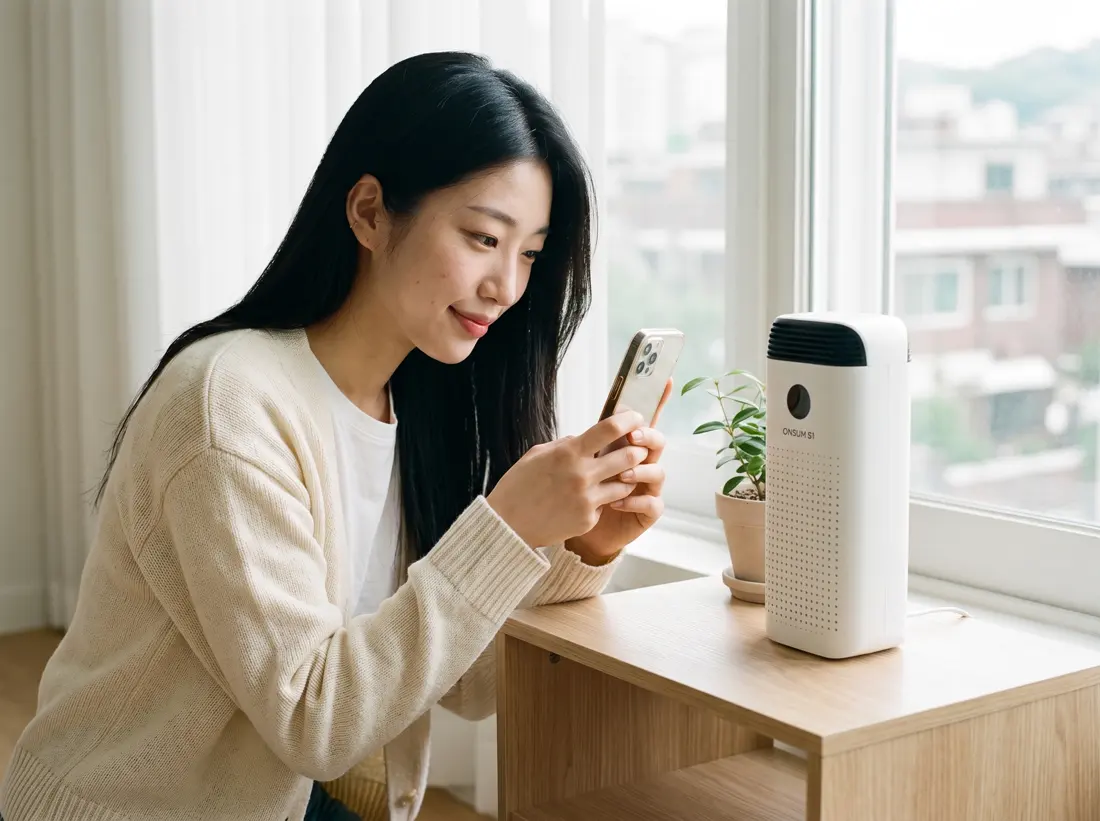
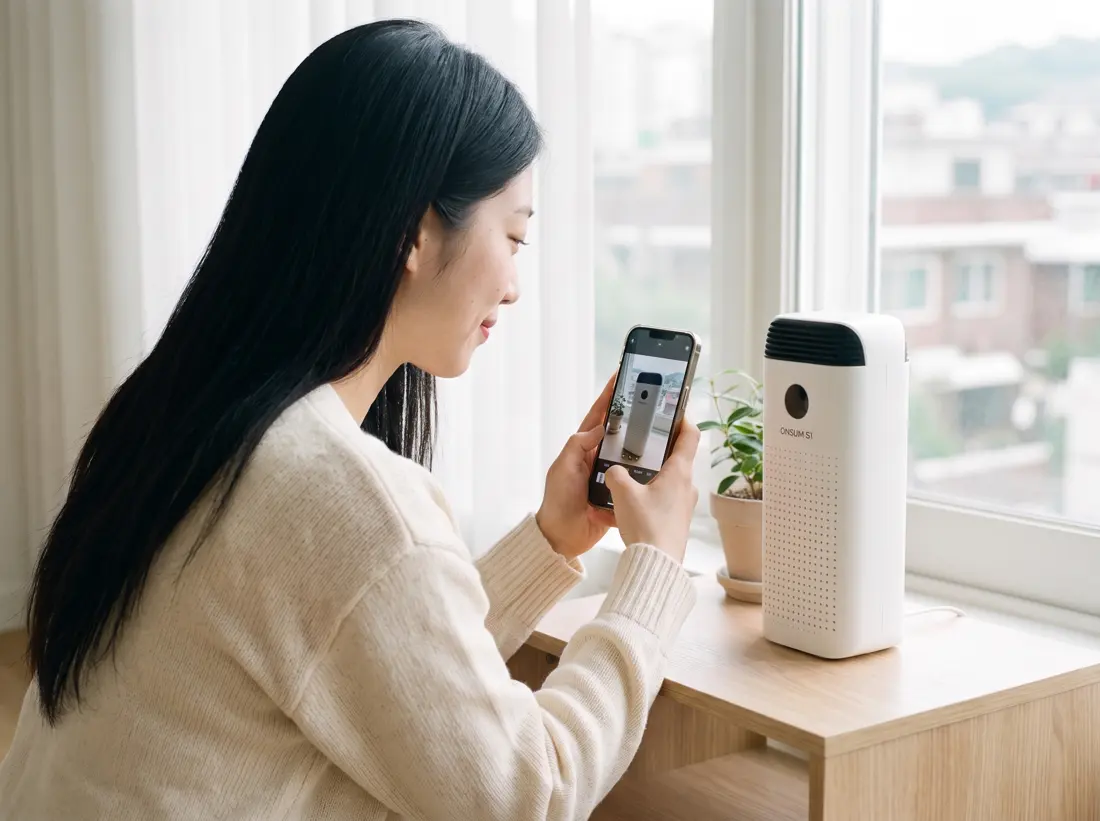
체험단 히어로 시안 v6: 개봉 표정 미소로·촬영 사진 휴대폰이 제품을 향하게 교체, 노트북 화면이 무대를 꽉 채운 자리에서 웹 창으로 바뀌게(튀어나옴 제거)

diff --git a/public/static/seeding-search.js b/public/static/seeding-search.js
@@ -1,6 +1,7 @@
 /* 체험단 히어로(한 바퀴 6초): 현실 → 웹.
    0~0.85초 개봉 → 0.85~1.7초 촬영(1.3초 찰칵) → 1.7~2.9초 노트북으로 글 쓰는 뒷모습, 2.3초부터 카메라가 어깨를 지나 화면 속으로 →
-   2.75초 노트북 화면이 그대로 브라우저 창이 되고(정면) 3.25초까지 비스듬히 자리 잡음 → 3.35초 발행 → 3.5초 검색 결과로 바뀜 → 방금 쓴 글이 맨 위, 이어서 후기가 쌓이며 후기 수가 오름 →
+   2.8초 노트북 화면이 무대를 꽉 채우면 그 자리에서 화면 내용이 웹 글쓰기 창으로 바뀌고(정면, 같은 크기) 3.3초까지 비스듬히 자리 잡음 →
+   3.4초 발행 → 3.55초 검색 결과로 바뀜 → 방금 쓴 글이 맨 위, 이어서 후기가 쌓이며 후기 수가 오름 →
    5.75초부터 처음으로. 화면 상태는 시간 t 하나로 계산한다(render). 히어로가 화면 밖이거나 탭이 숨겨지면 멈추고,
    '움직임 줄이기' 설정이면 후기가 다 찬 장면에서 멈춘다. window.ssSeek(t) 로 특정 순간을 고정해 볼 수 있다. */
 (function () {
@@ -12,8 +13,8 @@
     c1: $('c1'), c2: $('c2'), img: $('img'), q: $('q'), n: $('n'), track: $('track') };
   var cuts = Array.prototype.slice.call(root.querySelectorAll('[data-ss-cut]'));
   var go = root.querySelector('.ss-go');
-  var CYCLE = 6, CUT_AT = [0, 0.85, 1.7], SHOT = 1.3, PUSH = [2.3, 2.85], TO_WEB = [2.75, 2.9], SETTLE = [2.9, 3.25], TXT = [2.95, 3.3], PUB = 3.35,
-    SWITCH = [3.5, 3.62], Q = [3.6, 3.9], SEARCH = 3.92, CARD_AT = 4.05, CARD_GAP = 0.19, CARD_IN = 0.26, OUT = [5.75, 6.0], ROW = 124, ROWS_SHOWN = 3;
+  var CYCLE = 6, CUT_AT = [0, 0.85, 1.7], SHOT = 1.3, PUSH = [2.2, 2.82], TO_WEB = [2.7, 2.92], SETTLE = [2.95, 3.3], TXT = [3.0, 3.35], PUB = 3.4,
+    SWITCH = [3.55, 3.67], Q = [3.65, 3.92], SEARCH = 3.94, CARD_AT = 4.05, CARD_GAP = 0.19, CARD_IN = 0.26, OUT = [5.75, 6.0], ROW = 124, ROWS_SHOWN = 3;
   // 노트북 화면 칸(무대 비율): 이 칸이 무대 전체가 되도록 키운다. 사진이면 data-scr 값, 임시 그림이면 기본값
   var sv = cuts[2] && cuts[2].getAttribute('data-scr'), sa = sv ? sv.split(',').map(Number) : [0.33, 0.26, 0.34, 0.31];
   var scr = { x: sa[0], y: sa[1], w: sa[2], h: sa[3] };
@@ -60,18 +61,20 @@
     var ph = cuts[2] && cuts[2].querySelector('.ss-cut-ph');
     if (ph) {
       var SCR = scr;
-      var pz = inout(seg(l, PUSH)), z = 1 + (1 / SCR.w - 1) * pz;
+      // 화면 칸이 무대를 빈틈없이 덮을 때까지(가로·세로 중 더 큰 배율, 사진 속 화면이 비스듬해 12% 더) 다가감. 끝에서 서서히 멈추도록 감속
+      var pz = inout(seg(l, PUSH)), zEnd = Math.max(1 / SCR.w, 1 / SCR.h) * 1.12, z = Math.pow(zEnd, pz);
       ph.style.setProperty('--ox', ((SCR.x + SCR.w / 2) * 100) + '%'); ph.style.setProperty('--oy', ((SCR.y + SCR.h / 2) * 100) + '%');
       ph.style.transform = 'translate(' + ((0.5 - SCR.x - SCR.w / 2) * 100 * pz).toFixed(2) + '%,' + ((0.5 - SCR.y - SCR.h / 2) * 100 * pz).toFixed(2) + '%) scale(' + z.toFixed(3) + ')';
       var hd = ph.querySelector('.ss-cut-head'), hz = inout(clamp(seg(l, PUSH) * 1.6));
       if (hd) { hd.style.transform = 'translate(' + (-40 * hz).toFixed(1) + '%,' + (30 * hz).toFixed(1) + '%) scale(' + (1 + 0.5 * hz).toFixed(3) + ')'; hd.style.opacity = 1 - hz; }
     }
-    // 현실 → 웹: 화면을 가득 채운 노트북 화면이 그대로 브라우저 창(정면)이 되고, 비스듬한 자리로 물러남
+    // 현실 → 웹: 무대를 꽉 채운 노트북 화면 위에 같은 크기의 웹 창(정면)이 겹쳐 나타나고, 그다음 비스듬한 자리로 물러남
     var w = seg(l, TO_WEB), st = inout(seg(l, SETTLE)), out = seg(l, OUT), back = clamp(l / 0.15);
     el.real.style.opacity = (1 - w) * back;
     el.win.style.opacity = w * (1 - out);
     el.win.style.setProperty('--tilt', st.toFixed(3));
-    el.win.style.setProperty('--k', (1.04 - 0.04 * st).toFixed(3));
+    el.win.style.setProperty('--k', '1');
+    el.win.style.borderRadius = (18 - 4 * st).toFixed(1) + 'px';
 
     // 글쓰기: 제목·사진은 이미 들어가 있고 본문 마지막 줄이 써진 뒤 발행
     type(el.ttl, mine.t, 1); type(el.txt, mine.s, seg(l, TXT));

diff --git a/src/routes/seeding-search.tsx b/src/routes/seeding-search.tsx
@@ -71,11 +71,11 @@ const Mag = () => <svg width="22" height="22" viewBox="0 0 24 24" fill="none" ar
 
 // 현실 컷(0~0.85초 개봉, 0.85~1.7초 촬영, 1.7~2.9초 작성). src 가 있으면 public/static/seeding-search/{src}.mp4·.webp
 // 작성 컷 영상은 마지막 장면이 노트북 화면 가득 글쓰기 창이어야 브라우저 창과 이어진다(영상이 없을 땐 임시 그림을 키워 흉내).
-// 영상이 아직 없으면 img(첫 장면 사진)를 보여 준다. scr = 사진 속 노트북 화면 위치(무대 비율) — 이 칸이 무대 전체가 되도록 키운다.
+// 영상이 아직 없으면 img(첫 장면 사진)를 보여 준다. scr = 사진 속 노트북 화면 위치(무대 비율 x,y,w,h) — 이 칸이 무대를 꽉 채울 때까지 다가간다.
 const REAL: { n: string; label: string; src?: string; img?: string; scr?: string }[] = [
   { n: '개봉', label: '인물이 집에서 택배 상자를 열고 제품을 꺼냄', img: 'unbox' },
   { n: '촬영', label: '인물이 휴대폰으로 식탁 위 제품을 찍음(찰칵)', img: 'shoot' },
-  { n: '작성', label: '노트북으로 글 쓰는 뒷모습 → 카메라가 어깨를 지나 화면 속으로', img: 'write', scr: '.42,.24,.45,.36' },
+  { n: '작성', label: '노트북으로 글 쓰는 뒷모습 → 카메라가 어깨를 지나 화면 속으로', img: 'write', scr: '.427,.26,.432,.327' },
 ]
 
 // 지금은 온숨 한 브랜드만 6초마다 반복한다(브랜드를 돌리려면 개봉 영상·사진이 브랜드마다 필요).

diff --git a/src/routes/svc-seeding.tsx b/src/routes/svc-seeding.tsx
@@ -3,7 +3,7 @@ import { icon } from '../icons'
 import { SeedSearch } from './seeding-search'
 export const SvcSeedingPage = () => (
   <>
-    <link rel="stylesheet" href="/static/seeding-search.css?v=20261020e" />
+    <link rel="stylesheet" href="/static/seeding-search.css?v=20261020f" />
     <section class="vh-hero vh-hero--ss">
       <div class="vh-glow" aria-hidden="true"></div>
       <canvas id="vhCanvas3" class="vh-canvas"></canvas>
@@ -65,7 +65,7 @@ export const SvcSeedingPage = () => (
       </div>
 
       <SeedSearch />
-      <script src="/static/seeding-search.js?v=20261020e" defer></script>
+      <script src="/static/seeding-search.js?v=20261020f" defer></script>
 
       <div class="vh-scroll-hint">
         <div class="vh-scroll-mouse"><div class="vh-scroll-wheel"></div></div>
